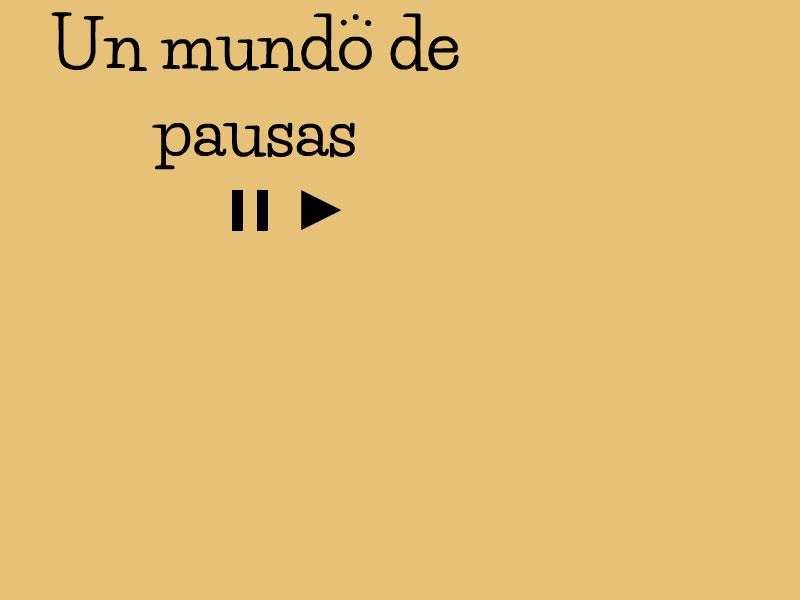
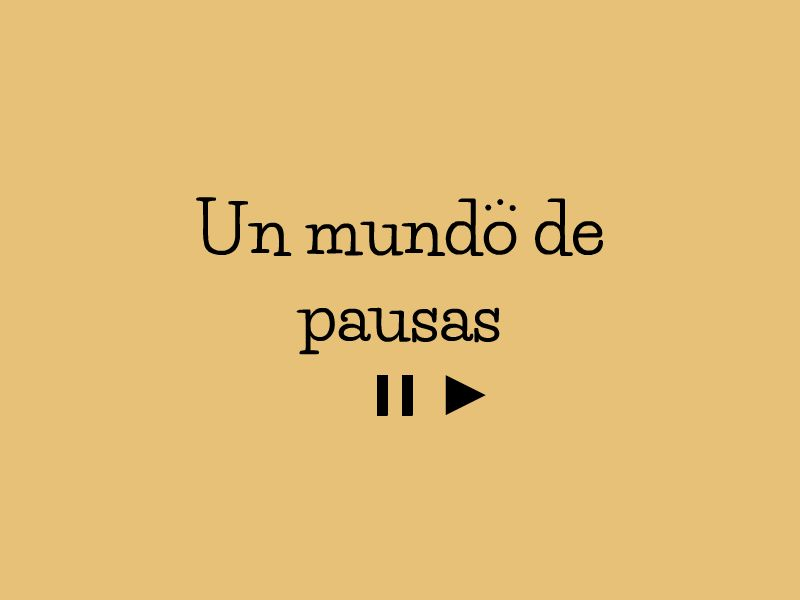
arreglar font

diff --git a/index.html b/index.html
@@ -22,7 +22,7 @@
   }
 </style>
 <script src="https://code.createjs.com/1.0.0/createjs.min.js"></script>
-<script src="index.js"></script>
+<script src="index.js?1625163420686"></script>
 <script>
 var canvas, stage, exportRoot, anim_container, dom_overlay_container, fnStartAnimation;
 function init() {
@@ -52,6 +52,9 @@ function handleComplete(evt,comp) {
 }
 </script>
 <!-- write your code here -->
+<link rel="preconnect" href="https://fonts.googleapis.com">
+<link rel="preconnect" href="https://fonts.gstatic.com" crossorigin>
+<link href="https://fonts.googleapis.com/css2?family=Life+Savers&display=swap" rel="stylesheet">
 </head>
 <body onload="init();" style="margin:0px; background-color:#B9402D;" >
 	<div id="animation_container" style="background-color:rgba(231, 193, 120, 1.00); width:800px; height:600px">

diff --git a/index.js b/index.js
@@ -235,7 +235,7 @@ if (reversed == null) { reversed = false; }
 	// huella
 	this.huella = new lib.huellas();
 	this.huella.name = "huella";
-	this.huella.setTransform(356,20.05,1,1,0,0,0,14.7,5.5);
+	this.huella.setTransform(352.1,20.05,1,1,0,0,0,14.7,5.5);
 
 	this.timeline.addTween(cjs.Tween.get(this.huella).wait(25));
 
@@ -283,7 +283,7 @@ if (reversed == null) { reversed = false; }
 	// titulo
 	this.titulo = new lib.Símbolo1();
 	this.titulo.name = "titulo";
-	this.titulo.setTransform(394.55,300,1,1,0,0,0,255.5,88.5);
+	this.titulo.setTransform(400.05,273.5,1,1,0,0,0,255.5,88.5);
 
 	this.timeline.addTween(cjs.Tween.get(this.titulo).wait(1));
 
